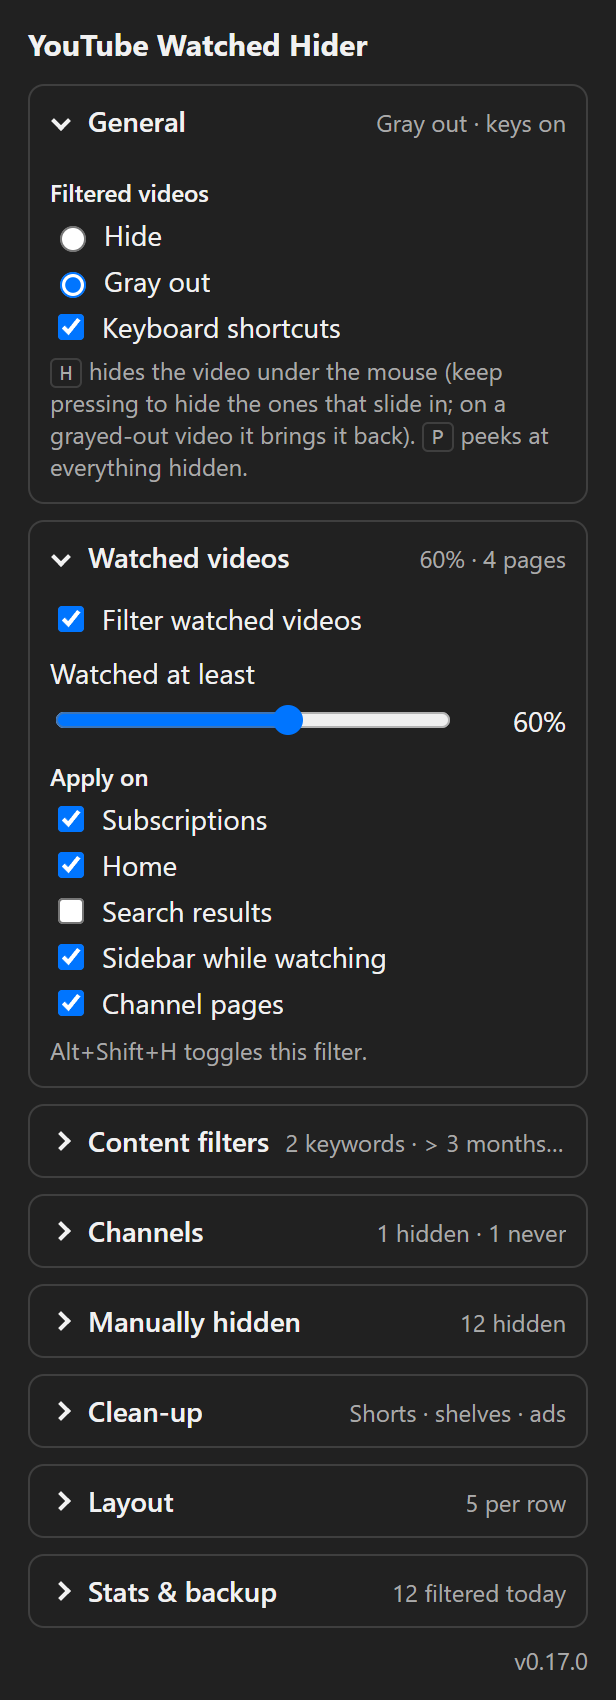
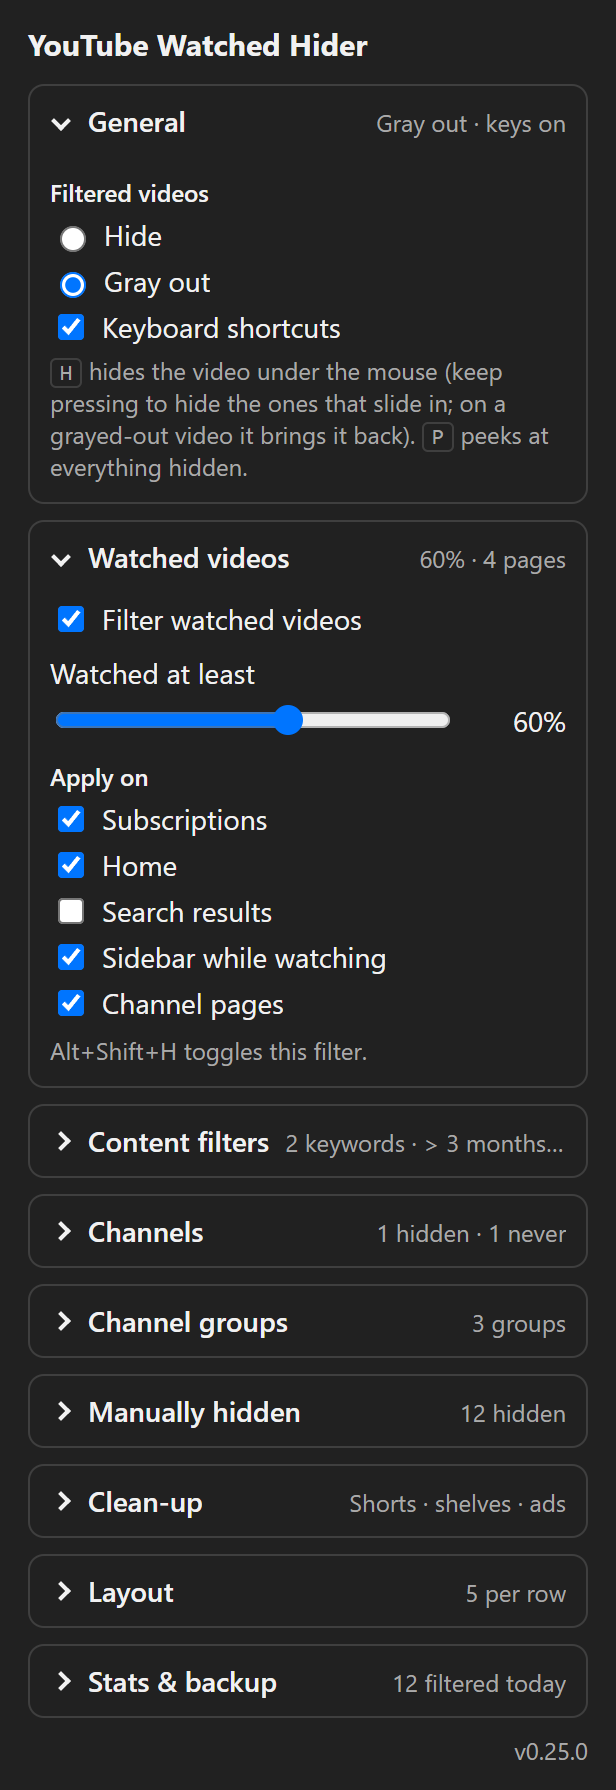
docs: README sections for filtering, channel groups and tools; new screenshots
Regenerated the settings screenshots for v0.25.0 (made-up example data) and
added one of the Channel groups section.

diff --git a/README.md b/README.md
@@ -1,23 +1,37 @@
 # YouTube Watched Hider
 
-Chrome extension (Manifest V3, no build step, no dependencies):
+Chrome extension (Manifest V3, no build step, no dependencies) that cleans up YouTube: hides what you've already watched, filters out what you don't want, and sorts your subscriptions into groups.
 
+## Features
+
+### Filtering
 - **Watched videos:** hides or grays out videos you've watched past a threshold (default 80%) on Subscriptions, Home, Search, the watch-page sidebar and channel pages. Each page can be switched on or off.
 - **Manual hide:** hover a thumbnail and click the eye icon to hide that video everywhere, with Undo. They follow the Hide / Gray out choice; when grayed out, the same button becomes an eye icon that shows the video again. Switch "Hide videos I've hidden" off to show them again without losing the list. Each hide expires automatically 48 hours after you made it. Stored locally on this device.
 - **Keyword filter:** hide videos whose title contains a word, or matches a `/pattern/` (regular expression).
 - **Age filter:** hide videos older than 1 day to 1 year (not on channel pages; reads YouTube's English "… ago" text).
 - **Video types:** hide live streams, upcoming premieres, members-only videos, and mixes/playlists.
-- **Channel groups:** sort your subscriptions into your own groups (Gaming, Coding, Languages…). Groups appear in YouTube's left sidebar above Subscriptions; click one to see only its channels' videos on Subscriptions, expand it to jump to a channel, or hover a channel there and click × to take it out of the group. In settings, "Clicking a group shows" switches between that filtered Subscriptions feed and **Latest uploads**: the group's channels' uploads newest first, read page by page from each channel's Videos tab, with more loading as you scroll. It opens in a couple of seconds and doesn't make YouTube page through your whole Subscriptions history. Watched videos are hidden or grayed out by your Watched settings (the requests are signed in the same way YouTube's own pages sign them, so YouTube includes your watch progress), and manually hidden videos stay hidden. Older videos are ordered by YouTube's "… ago" text, so within the same week, month or year the order across channels is approximate. A channel can be in several groups. Add a channel with the folder button that appears when you hover it in the sidebar's Subscriptions list, or with the groups button next to Subscribe on its channel page. Create groups there, with the sidebar's + button, or in the settings panel (which can also rename, reorder and delete them, and add channels by @handle or URL). Stored on this device and included in backups.
 - **Channel blocklist:** always hide videos from channels you list (by `@handle` or name).
 - **Never hide:** channels you list are never hidden by any automatic filter.
 - **Shorts:** optionally hides Shorts shelves, Shorts cards and the sidebar entry, and redirects `/shorts/` pages to Home.
 - **Feed clean-up:** hide the add-on shelves on Home (news, trending, posts, Playables, Shorts…) and Subscriptions ("Most relevant"), and sponsored tiles and banners.
+
+### Channel groups
+Sort your subscriptions into your own groups (Gaming, Coding, Languages…) instead of scrolling one long list.
+
+- **In the sidebar:** groups appear in YouTube's left sidebar, above Subscriptions. Expand a group to see its channels and jump to one; hover a channel there and click × to take it out of the group.
+- **Adding channels:** hover a channel in the sidebar's Subscriptions list and click its folder button, or use the groups button next to Subscribe on a channel page. Both open a small menu with a checkbox per group and a field to create a new one. A channel can be in several groups. Groups can also be created with the sidebar's + button, and managed in settings (rename, reorder, delete, add channels by `@handle` or URL).
+- **Opening a group:** click it in the sidebar. Settings → Channel groups → "Clicking a group shows" picks the view:
+  - **Latest uploads** (recommended): the group's channels' uploads, newest first, with more loading as you scroll. It opens in a couple of seconds. Watched videos are hidden or grayed out by your Watched settings, with YouTube's red watched bar on each card, and manually hidden videos stay hidden. Older videos are ordered by YouTube's "… ago" text, so within the same week, month or year the order across channels is approximate.
+  - **Subscriptions, filtered:** YouTube's own Subscriptions feed with every other channel hidden. All your filters apply, but with small groups YouTube keeps loading older pages to fill the screen, so it can be slow.
+- **Storage:** groups are stored on this device and included in backups.
+
+### Layout and tools
 - **Tile size:** choose how many videos per row (Auto or 3–8) for smaller thumbnails on Home, Subscriptions and channel pages.
-- **Badge:** the toolbar icon shows how many items were hidden on the current page.
 - **Settings button:** a button next to YouTube's search bar opens the settings in a panel, so you don't need to pin the extension.
+- **Badge:** the toolbar icon shows how many items were hidden on the current page.
 - **Stats:** how many videos were filtered today, this week and this month, broken down by reason.
 - **Layout warning:** if YouTube changes its page structure so videos or watched bars are no longer recognized, settings shows a warning.
-- **Backup:** export all settings, lists and manually hidden videos to a JSON file, and import them on another computer.
+- **Backup:** export all settings, lists, channel groups and manually hidden videos to a JSON file, and import them on another computer.
 - **Keyboard:** <kbd>H</kbd> hides the video under the mouse (keep pressing to clear the videos that slide into its place; on a grayed-out video, H brings it back), <kbd>P</kbd> peeks at everything hidden (outlined, with a bar to exit). Can be switched off in settings.
 - **Shortcut:** `Alt+Shift+H` toggles the watched filter (change it at `chrome://extensions/shortcuts`).
 
@@ -28,12 +42,14 @@ Settings are grouped into collapsible sections; each header shows what's current
 
 <table>
   <tr>
-    <td align="center"><img src="docs/screenshots/settings-light.png" width="300" alt="Settings panel in light theme with default settings: hide anything watched past 80% on all pages, no extra filters, stats for the last 30 days"></td>
-    <td align="center"><img src="docs/screenshots/settings-dark.png" width="300" alt="Settings panel in dark theme: gray out at 60%, keyword and channel filters, hide videos older than 3 months, hide upcoming and playlists, Home clean-up on, 5 videos per row, Shorts hidden"></td>
+    <td align="center"><img src="docs/screenshots/settings-light.png" width="260" alt="Settings panel in light theme with default settings: hide anything watched past 80% on all pages, no extra filters, no channel groups"></td>
+    <td align="center"><img src="docs/screenshots/settings-dark.png" width="260" alt="Settings panel in dark theme: gray out at 60%, keyword and channel filters, hide videos older than 3 months, 3 channel groups, Shorts, shelves and ads hidden, 5 videos per row"></td>
+    <td align="center"><img src="docs/screenshots/settings-groups.png" width="260" alt="Channel groups section in dark theme: Gaming, Coding and Languages groups, Coding expanded with its four channels and a field to add more, and Clicking a group shows set to Latest uploads"></td>
   </tr>
   <tr>
     <td align="center">Defaults: hide anything watched past 80%</td>
-    <td align="center">Power setup: gray out at 60%, keyword, channel, age and type filters, Home clean-up, 5 per row, no Shorts</td>
+    <td align="center">Power setup: gray out at 60%, keyword, channel, age and type filters, 3 channel groups, clean-up, 5 per row</td>
+    <td align="center">Channel groups: manage groups and their channels, choose how a group opens</td>
   </tr>
 </table>
 
